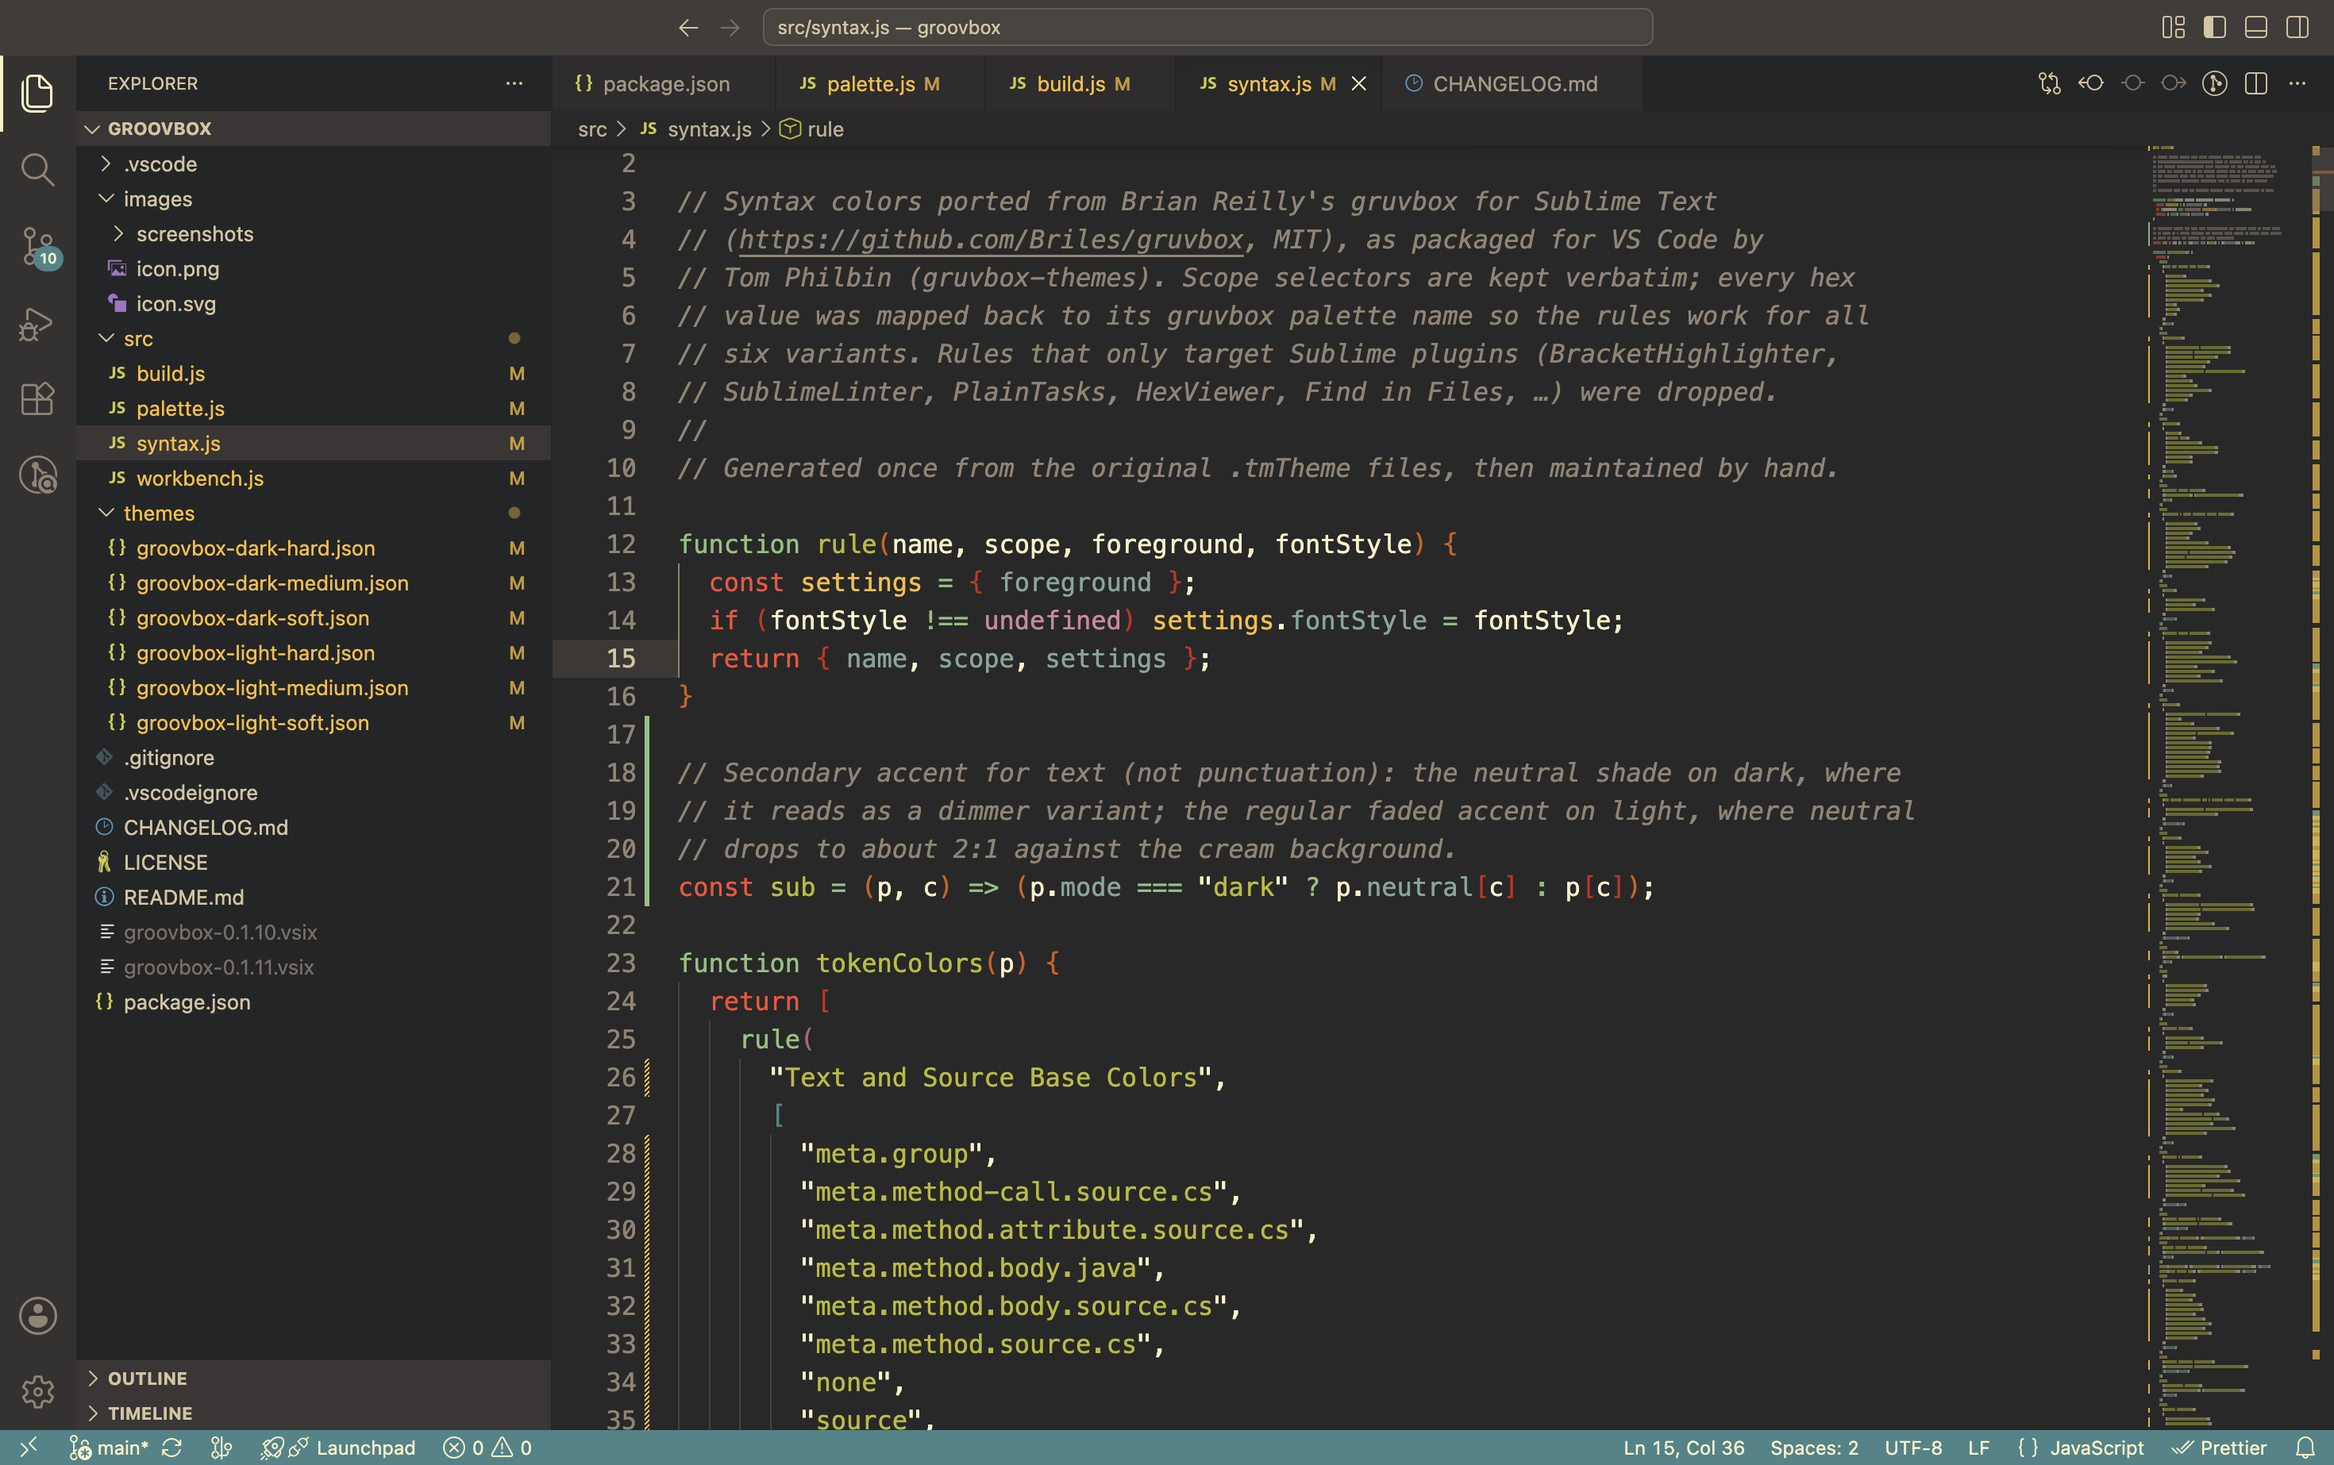
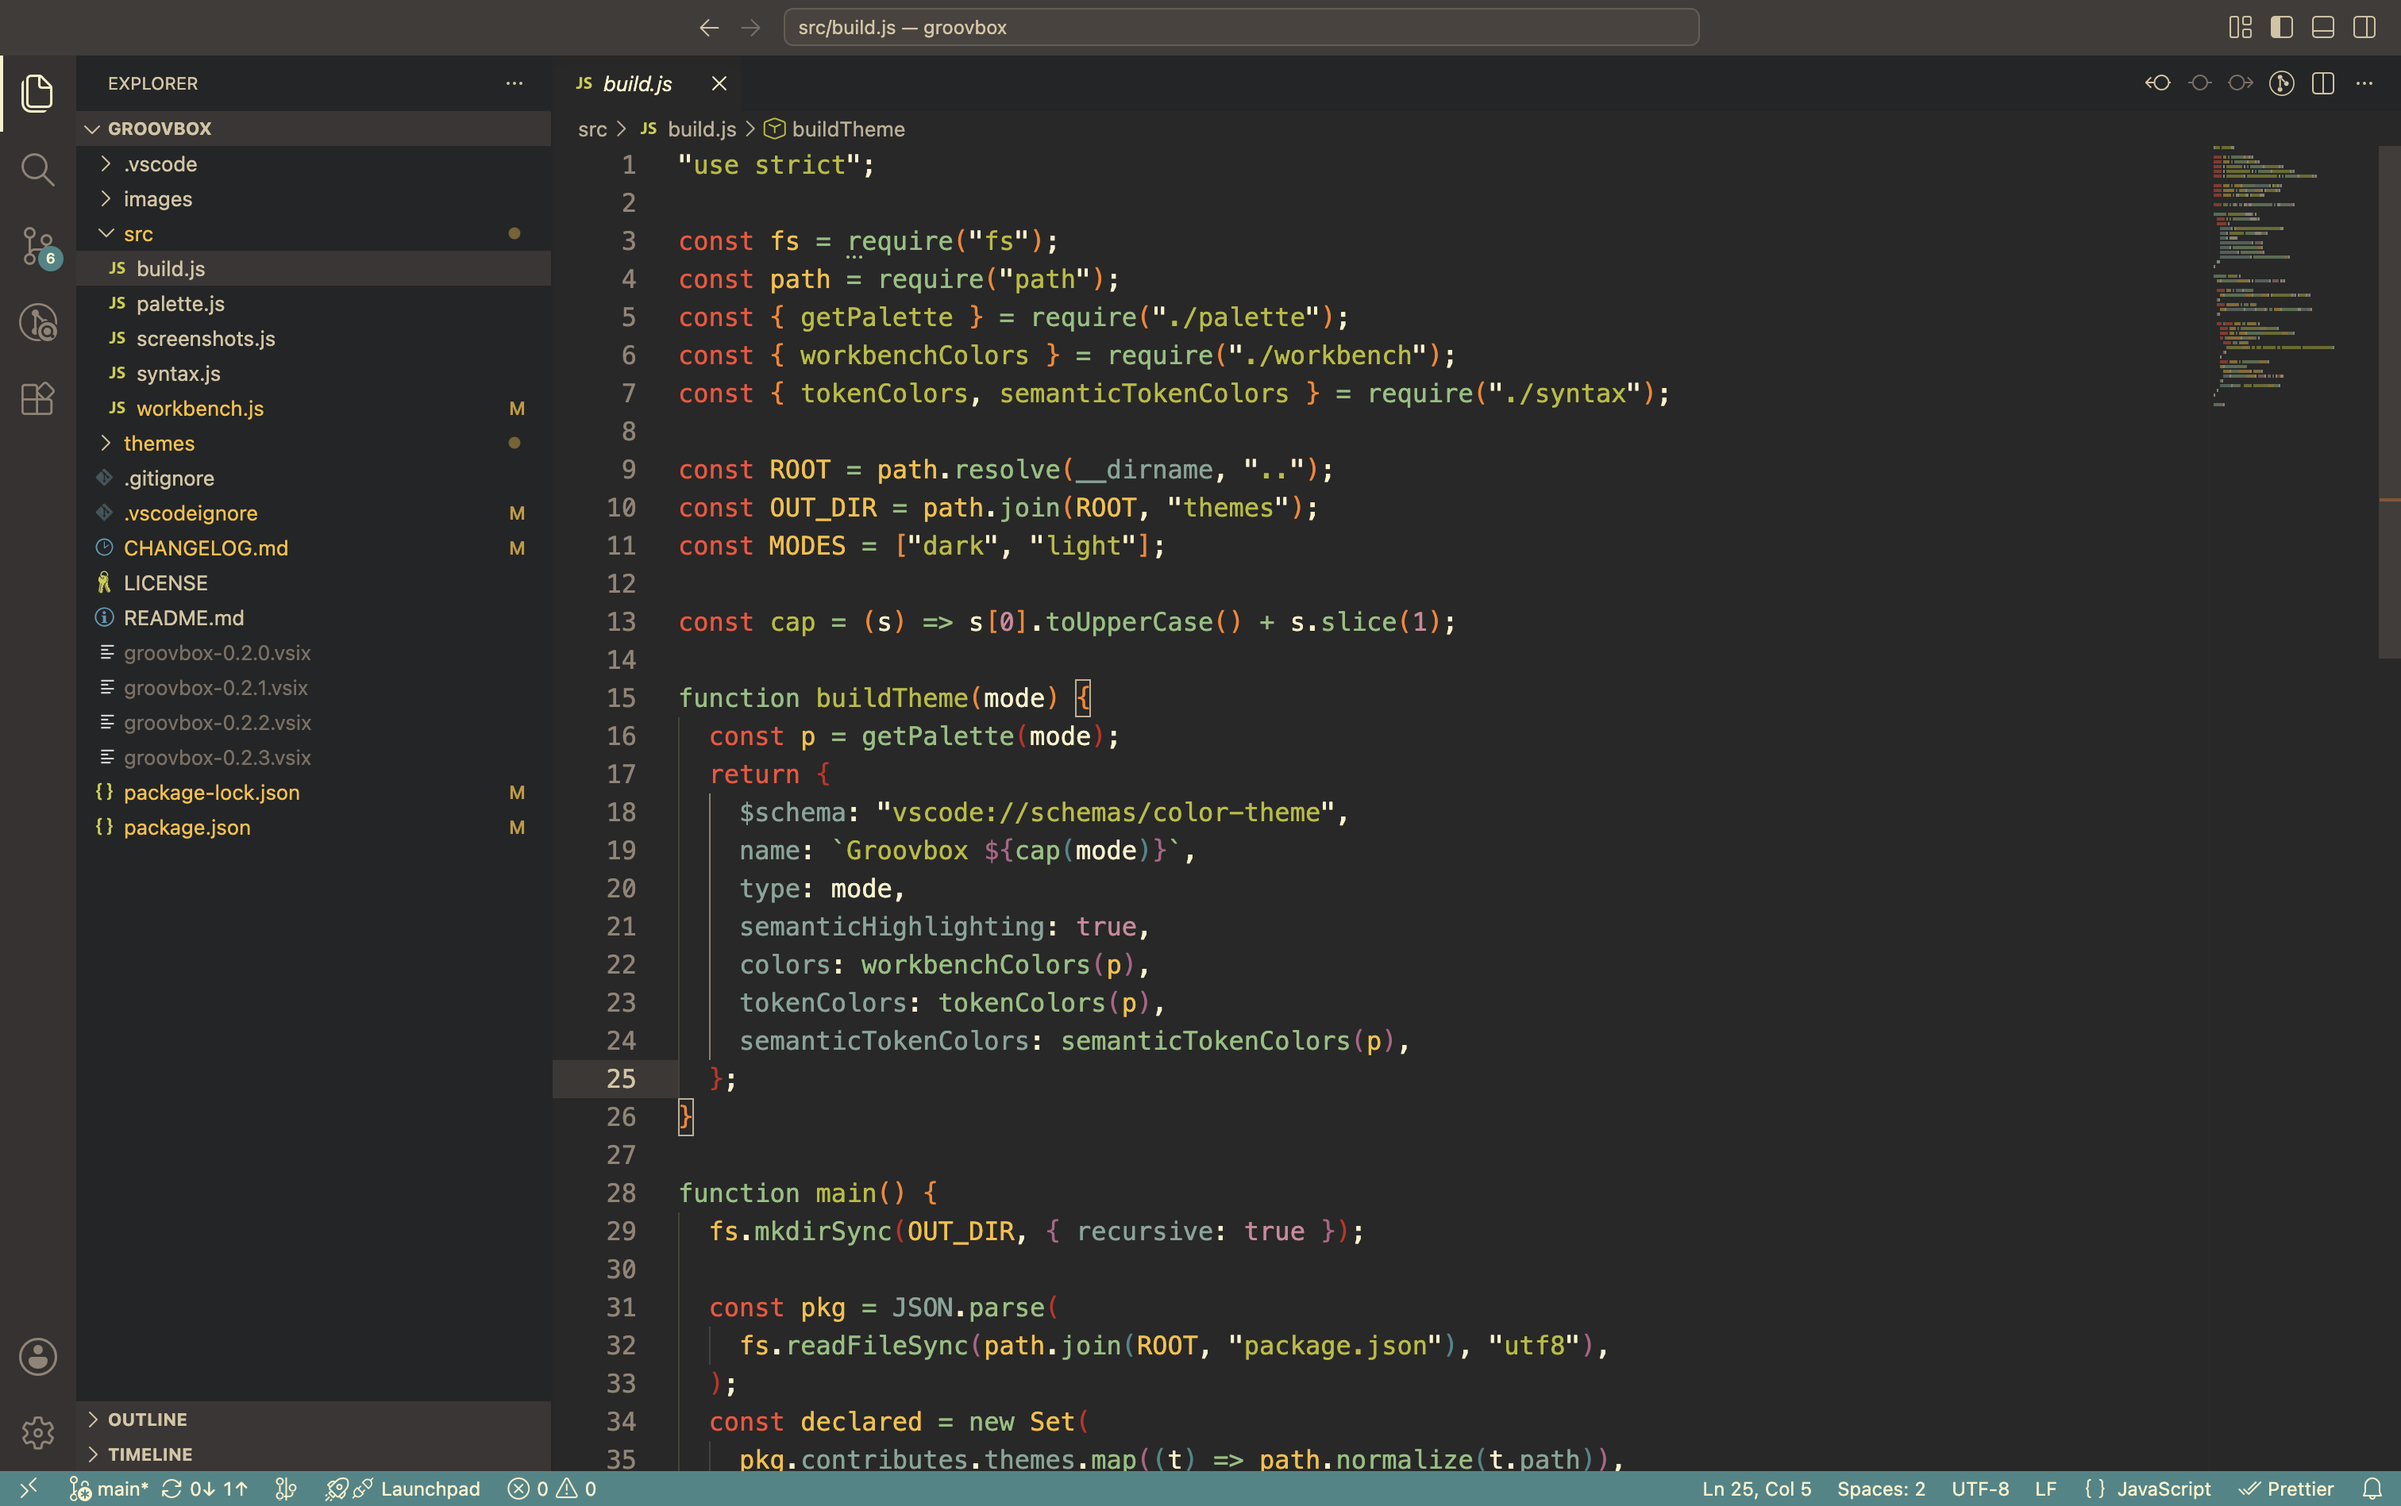
Release 0.2.3: bright orange brackets, simpler README

diff --git a/src/syntax.js b/src/syntax.js
@@ -1,13 +1,7 @@
 "use strict";
 
-// Syntax colors ported from Brian Reilly's gruvbox for Sublime Text
-// (https://github.com/Briles/gruvbox, MIT), as packaged for VS Code by
-// Tom Philbin (gruvbox-themes). Scope selectors are kept verbatim; every hex
-// value was mapped back to its gruvbox palette name so the rules work for
-// both variants. Rules that only target Sublime plugins (BracketHighlighter,
-// SublimeLinter, PlainTasks, HexViewer, Find in Files, …) were dropped.
-//
-// Generated once from the original .tmTheme files, then maintained by hand.
+// Syntax colors based on Brian Reilly's gruvbox for Sublime Text
+// (https://github.com/Briles/gruvbox).
 
 function rule(name, scope, foreground, fontStyle) {
   const settings = { foreground };

diff --git a/src/workbench.js b/src/workbench.js
@@ -324,8 +324,9 @@ function workbenchColors(p) {
     "editorStickyScroll.shadow": shadow,
     "editorStickyScrollHover.background": p.bg1,
 
-    // Rainbow brackets: same colors as gruvbox.vim's rainbow_guifgs.
-    "editorBracketHighlight.foreground1": n.orange,
+    // Rainbow brackets: same colors as gruvbox.vim's rainbow_guifgs, except the
+    // first level on dark, which is bright orange (neutral orange reads too dark).
+    "editorBracketHighlight.foreground1": p.mode === "dark" ? p.orange : n.orange,
     "editorBracketHighlight.foreground2": n.red,
     "editorBracketHighlight.foreground3": n.purple,
     "editorBracketHighlight.foreground4": n.blue,

diff --git a/README.md b/README.md
@@ -1,11 +1,8 @@
 # Groovbox
 
 A modern take on [gruvbox](https://github.com/morhetz/gruvbox) by Pavel Pertsev
-for VS Code. Code colors come from Brian Reilly's
-[gruvbox for Sublime Text](https://github.com/Briles/gruvbox), taken from Tom
-Philbin's VS Code port,
-[Gruvbox Themes](https://github.com/tomphilbin/gruvbox-themes-vscode).
-This adds the full UI and semantic highlighting.
+for VS Code. Code colors are based on Brian Reilly's
+[gruvbox for Sublime Text](https://github.com/Briles/gruvbox).
 
 ## Variants
 
@@ -27,12 +24,6 @@ code --install-extension groovbox-<version>.vsix    # VSCodium: codium …
 ```
 
 Then pick a **Groovbox** theme in *Preferences: Color Theme*.
-
-## Semantic highlighting
-
-The themes turn semantic highlighting on. When a language server provides
-semantic tokens, function calls, method calls and declarations keep the
-Sublime colors. Everything else uses the same colors as without it.
 
 ## Build
 

diff --git a/CHANGELOG.md b/CHANGELOG.md
@@ -1,5 +1,10 @@
 # Changelog
 
+## 0.2.3
+
+- Dark: first-level rainbow brackets are bright orange (`#fe8019`) instead of
+  neutral orange (`#d65d0e`), which read too dark next to code.
+
 ## 0.2.1
 
 - Dark: method calls use bright aqua (`#8ec07c`) instead of neutral aqua
